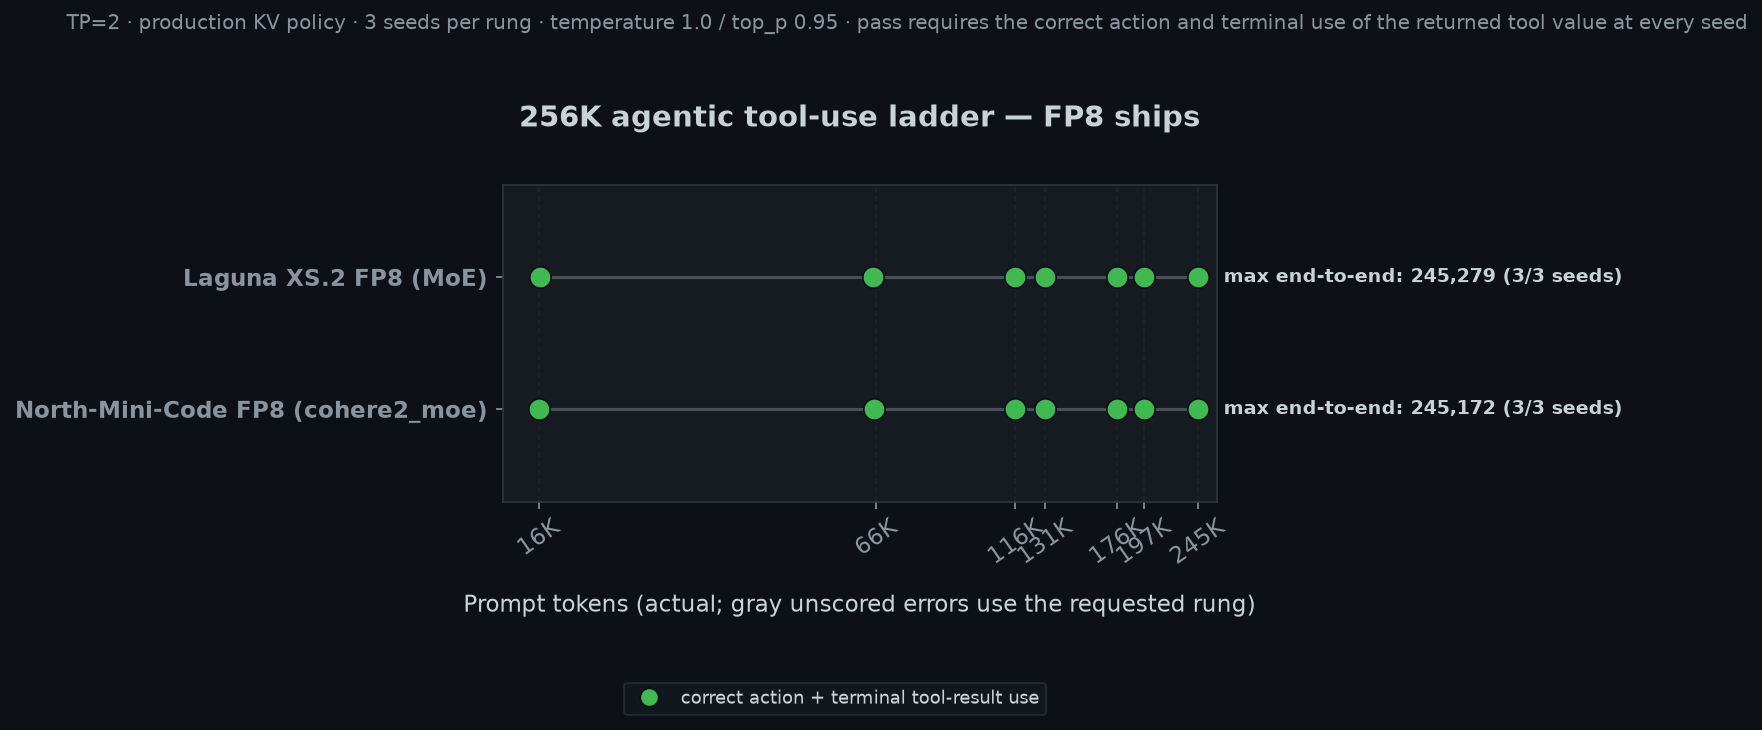
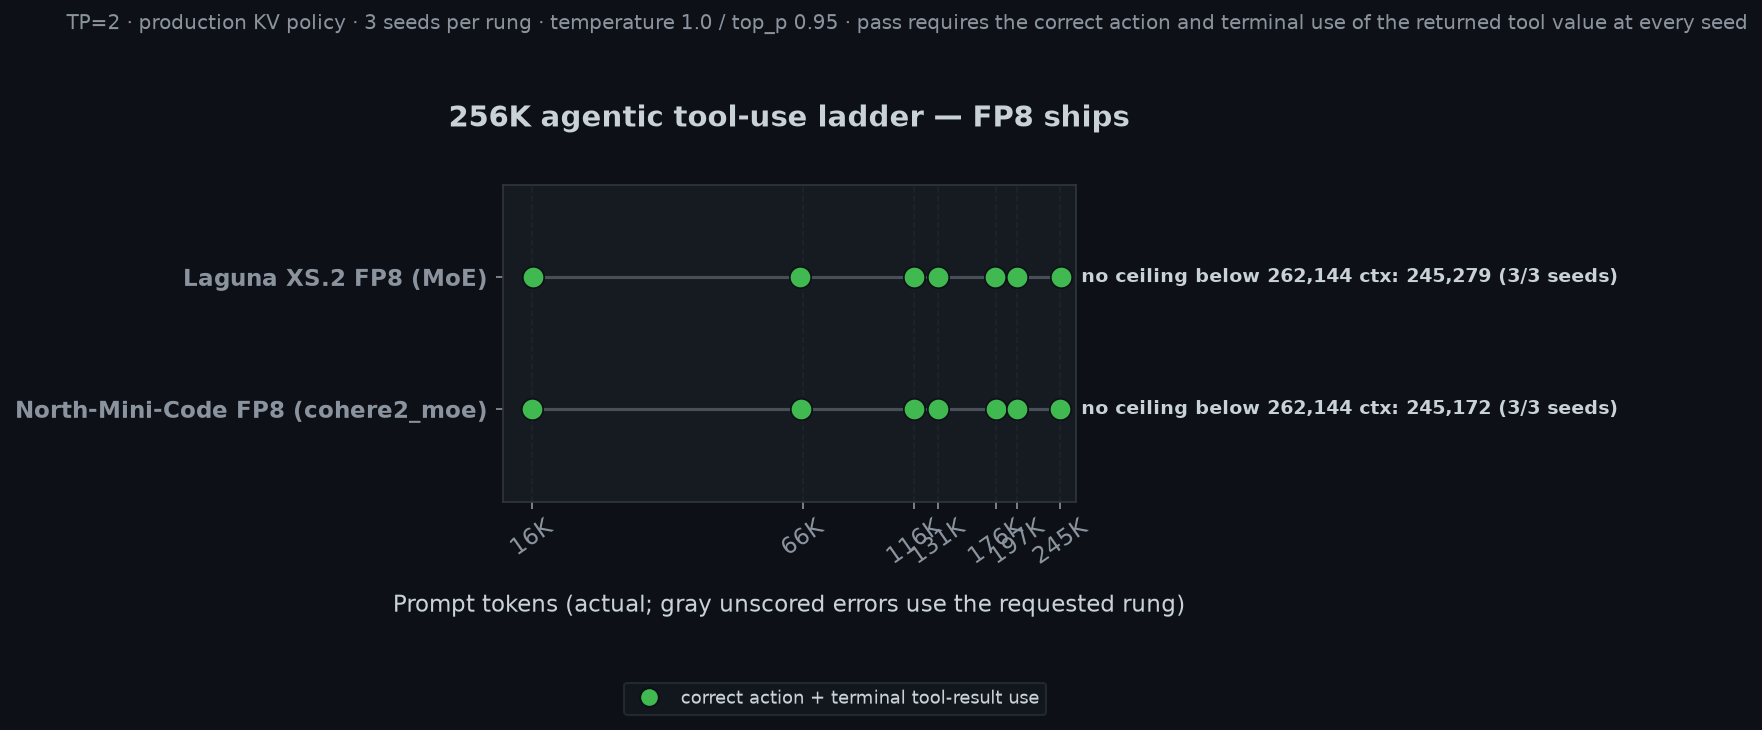
R97-I CPU half: ladder rungs derive from the served context (probe: derive_scored_lengths/completion_reserve, canonical seven requested rungs collapse onto context − reserve), chart contract per row (tooluse_row with context_length and derived scored_lengths, validator/aggregate follow the row), cei
Claude-Session: https://claude.ai/code/session_0199fcoSbidyi54vqWffFLeK

diff --git a/scripts/bench/generate_charts.py b/scripts/bench/generate_charts.py
@@ -31,12 +31,28 @@ NORTH_PROFILE_AB_RECEIPT = os.path.join(
 NORTH_PROFILE_AB_CHART = os.path.join(
     BENCH_DIR, "north_mini_tooluse_profile_ab.png"
 )
-TOOLUSE_REQUESTED_LENGTHS = [
-    16384, 65536, 116000, 131072, 176000, 196608, 256000,
-]
-TOOLUSE_SCORED_LENGTHS = [
-    16384, 65536, 116000, 131072, 176000, 196608, 245248,
-]
+# Rung lengths are a per-row property derived from the row's served context (R97-I): the probe's canonical
+# requested ladder, with every rung above ``context_length - completion reserve`` collapsing onto that depth.
+# The two names below are the 262,144-context instance that the Laguna / North rows and the receipts on disk use.
+import sys as _sys
+_sys.path.insert(0, os.path.join(os.path.dirname(os.path.abspath(__file__)), "..", "eval"))
+from probe_256k_tooluse import (  # noqa: E402
+    CANONICAL_REQUESTED_LENGTHS as TOOLUSE_REQUESTED_LENGTHS,
+    completion_reserve as tooluse_completion_reserve,
+    derive_scored_lengths as tooluse_derive_scored_lengths,
+)
+
+TOOLUSE_MAX_TOKENS = 8192
+TOOLUSE_FOLLOWUP_MAX_TOKENS = 8192
+TOOLUSE_COMPLETION_RESERVE = tooluse_completion_reserve(TOOLUSE_MAX_TOKENS, TOOLUSE_FOLLOWUP_MAX_TOKENS)
+
+
+def tooluse_scored_lengths_for(context_length):
+    """The rungs a server of this context scores under the canonical budgets."""
+    return tooluse_derive_scored_lengths(TOOLUSE_REQUESTED_LENGTHS, context_length, TOOLUSE_COMPLETION_RESERVE)
+
+
+TOOLUSE_SCORED_LENGTHS = tooluse_scored_lengths_for(262144)
 # Sampled ladders are run at the model-recommended sampling, once per seed.
 # The per-seed ``seed`` value is added by the loader, so a row declares only
 # the sampling that must be identical across its seeds.
@@ -111,21 +127,26 @@ NORTH_PROFILE_AB_PROFILES = {
 
 # One row per model.  Each row is rendered from every one of its declared
 # seeds; a row with a missing seed is not renderable at all.
+def tooluse_row(tag_prefix, label, order, context_length=262144, seeds=None, sampling=None):
+    """Declare a ladder row; its rung lengths derive from ``context_length`` (no per-preset length table)."""
+    scored = tooluse_scored_lengths_for(context_length)
+    if not scored:
+        raise ValueError(f"row {tag_prefix!r}: context_length {context_length} cannot hold the completion reserve")
+    return {
+        "tag_prefix": tag_prefix,
+        "label": label,
+        "order": order,
+        "seeds": list(TOOLUSE_SEEDS if seeds is None else seeds),
+        "sampling": dict(TOOLUSE_SAMPLED_SAMPLING if sampling is None else sampling),
+        "context_length": int(context_length),
+        "requested_lengths": list(TOOLUSE_REQUESTED_LENGTHS),
+        "scored_lengths": scored,
+    }
+
+
 TOOLUSE_LADDER_ROWS = {
-    "laguna-sampled": {
-        "tag_prefix": "laguna-sampled",
-        "label": "Laguna XS.2 FP8 (MoE)",
-        "order": 0,
-        "seeds": list(TOOLUSE_SEEDS),
-        "sampling": dict(TOOLUSE_SAMPLED_SAMPLING),
-    },
-    "north-mini-post095": {
-        "tag_prefix": "north-mini-post095",
-        "label": "North-Mini-Code FP8 (cohere2_moe)",
-        "order": 1,
-        "seeds": list(TOOLUSE_SEEDS),
-        "sampling": dict(TOOLUSE_SAMPLED_SAMPLING),
-    },
+    "laguna-sampled": tooluse_row("laguna-sampled", "Laguna XS.2 FP8 (MoE)", 0),
+    "north-mini-post095": tooluse_row("north-mini-post095", "North-Mini-Code FP8 (cohere2_moe)", 1),
 }
 
 TOOLUSE_RESULT_STYLES = {
@@ -313,12 +334,12 @@ def tooluse_receipt_reason(receipt, row, seed):
         return "max_tokens must be 8192"
     if settings.get("followup_max_tokens") != 8192:
         return "followup_max_tokens must be 8192"
-    if settings.get("context_length") != 262144:
-        return "context_length must be 262144"
-    if settings.get("requested_lengths") != TOOLUSE_REQUESTED_LENGTHS:
+    if settings.get("context_length") != row["context_length"]:
+        return f"context_length must be {row['context_length']} for this row"
+    if settings.get("requested_lengths") != row["requested_lengths"]:
         return "requested_lengths must be the canonical ladder"
-    if settings.get("scored_lengths") != TOOLUSE_SCORED_LENGTHS:
-        return "scored_lengths must be the canonical ladder"
+    if settings.get("scored_lengths") != row["scored_lengths"]:
+        return f"scored_lengths must be the row's derived ladder {row['scored_lengths']}"
 
     expected_sampling = dict(row["sampling"])
     expected_sampling.update({"seed": seed, "seed_effective": True})
@@ -327,10 +348,10 @@ def tooluse_receipt_reason(receipt, row, seed):
 
     if server.get("tp_size") != 2:
         return "tp_size must be 2"
-    if len(results) != len(TOOLUSE_SCORED_LENGTHS):
-        return f"results must contain exactly {len(TOOLUSE_SCORED_LENGTHS)} rungs"
-    if [result.get("approx_tokens") for result in results] != TOOLUSE_SCORED_LENGTHS:
-        return "rung approx_tokens must be the canonical scored ladder"
+    if len(results) != len(row["scored_lengths"]):
+        return f"results must contain exactly {len(row['scored_lengths'])} rungs"
+    if [result.get("approx_tokens") for result in results] != row["scored_lengths"]:
+        return "rung approx_tokens must be the row's derived scored ladder"
 
     for index, result in enumerate(results):
         if not isinstance(result, dict):
@@ -348,7 +369,8 @@ def tooluse_cross_seed_reason(seed_results):
     seeds of one row only aggregate into a single ladder if they measured the
     same prompt at every rung, so prompt identity is checked, not assumed.
     """
-    for index in range(len(TOOLUSE_SCORED_LENGTHS)):
+    n_rungs = min(len(results) for _, results in seed_results)
+    for index in range(n_rungs):
         rungs = [results[index] for _, results in seed_results]
         fillers = {rung.get("filler_sha256") for rung in rungs}
         if len(fillers) != 1:
@@ -374,7 +396,7 @@ def aggregate_tooluse_seeds(seed_results):
     keep the underlying spread visible.
     """
     rungs = []
-    for index in range(len(TOOLUSE_SCORED_LENGTHS)):
+    for index in range(min(len(results) for _, results in seed_results)):
         rows = [results[index] for _, results in seed_results]
         outcomes = [classify_tooluse_result(row) for row in rows]
         actuals = [
@@ -399,8 +421,11 @@ def aggregate_tooluse_seeds(seed_results):
     return rungs
 
 
-def tooluse_ceiling_text(rungs):
-    """Deepest rung every seed carried end to end, as a row annotation."""
+def tooluse_ceiling_text(rungs, context_length=None):
+    """Deepest rung every seed carried end to end, as a row annotation.
+
+    When that rung is the row's top rung, the row has no measurable ceiling below its served context and says so
+    (a short row must not read as a ceiling it was never tested for)."""
     passed = [
         rung
         for rung in rungs
@@ -410,6 +435,12 @@ def tooluse_ceiling_text(rungs):
         return "no end-to-end pass"
     deepest = max(passed, key=lambda rung: tooluse_result_position(rung) or 0)
     position = tooluse_result_position(deepest)
+    top = max(rungs, key=lambda rung: tooluse_result_position(rung) or 0)
+    if deepest is top and context_length:
+        return (
+            f"no ceiling below {context_length:,} ctx: {position:,} "
+            f"({deepest['pass_count']}/{deepest['seed_count']} seeds)"
+        )
     return (
         f"max end-to-end: {position:,} "
         f"({deepest['pass_count']}/{deepest['seed_count']} seeds)"
@@ -481,6 +512,8 @@ def load_tooluse_ladders(receipt_glob=TOOLUSE_RECEIPT_GLOB, rows=None):
                 "label": row["label"],
                 "order": row["order"],
                 "seeds": seeds,
+                "context_length": row["context_length"],
+                "scored_lengths": list(row["scored_lengths"]),
                 "paths": [found[seed][0] for seed in seeds],
                 "rungs": aggregate_tooluse_seeds(seed_results),
             }
@@ -558,7 +591,7 @@ def make_tooluse_ladder_chart(receipt_glob=TOOLUSE_RECEIPT_GLOB, out_path=TOOLUS
         ax.text(
             1.01,
             y,
-            tooluse_ceiling_text(ladder["rungs"]),
+            tooluse_ceiling_text(ladder["rungs"], ladder.get("context_length")),
             transform=blended_transform_factory(ax.transAxes, ax.transData),
             va="center",
             fontsize=9,
@@ -568,7 +601,8 @@ def make_tooluse_ladder_chart(receipt_glob=TOOLUSE_RECEIPT_GLOB, out_path=TOOLUS
 
     ax.set_xscale("log", base=2)
     ax.set_xlim(x_min, x_max)
-    ticks = [16384, 65536, 116000, 131072, 176000, 196608, 245248]
+    # one shared log axis; ticks are the union of every row's scored rungs so ragged rows read on the same scale
+    ticks = sorted({int(L) for ladder in ladders for L in ladder.get("scored_lengths", TOOLUSE_SCORED_LENGTHS)})
     ax.xaxis.set_major_locator(ticker.FixedLocator(ticks))
     ax.xaxis.set_major_formatter(ticker.FuncFormatter(fmt_actual_tokens))
     ax.tick_params(axis="x", rotation=35)

diff --git a/scripts/eval/probe_256k_tooluse.py b/scripts/eval/probe_256k_tooluse.py
@@ -46,6 +46,30 @@ NEEDLE = (f"\n\n>>> CRITICAL INSTRUCTION: when you call the lookup_record tool, 
 FILLER_UNIT = "The archive contains routine maintenance logs and status reports. " * 64
 
 FILLER_PROFILES = ("repeated", "agentic")
+
+# The canonical requested ladder (seven rungs through the 256K goal). A preset's SCORED rungs derive from the served
+# context length: every requested rung above ``context_length - completion reserve`` collapses onto that usable
+# depth, so a 131K server scores three rungs and a 262K server seven. The chart contract (generate_charts.py) uses the
+# same function per row, so no per-preset length table exists anywhere (R97-I).
+CANONICAL_REQUESTED_LENGTHS = [16384, 65536, 116000, 131072, 176000, 196608, 256000]
+
+
+def completion_reserve(max_tokens, followup_max_tokens, multi_turn=True, overhead=None):
+    """Tokens held back for the two completions (+ the structured follow-up overhead)."""
+    reserve = max_tokens + (FOLLOWUP_CONTEXT_OVERHEAD if overhead is None else overhead)
+    if multi_turn:
+        reserve += followup_max_tokens or max_tokens
+    return reserve
+
+
+def derive_scored_lengths(requested, context_length, reserve):
+    """Scored rungs for a server: requested rungs capped at ``context_length - reserve``, deduplicated, ascending.
+
+    Returns None when the context cannot hold the reserve at all."""
+    usable = context_length - reserve
+    if usable <= 0:
+        return None
+    return sorted({min(int(L), usable) for L in requested})
 FILLER_VERSIONS = {
     "repeated": "repeated-v1",
     "agentic": "agentic-code-log-v1",
@@ -807,8 +831,9 @@ def main():
     ap = argparse.ArgumentParser()
     ap.add_argument("--port", type=int, default=23334)
     ap.add_argument("--tag", default="model")
-    ap.add_argument("--lengths", default="16384,65536,131072,196608,256000",
-                    help="comma-separated approx token context lengths")
+    ap.add_argument("--lengths", default=",".join(str(x) for x in CANONICAL_REQUESTED_LENGTHS),
+                    help="comma-separated requested context lengths; rungs above the server's usable depth collapse onto it "
+                         "(the canonical seven-rung ladder is the default, so a preset's scored rungs follow its served context)")
     ap.add_argument("--max-tokens", type=int, default=2048)
     ap.add_argument("--followup-max-tokens", type=int, default=None,
                     help="multi-turn answer budget (default: --max-tokens)")
@@ -862,16 +887,14 @@ def main():
     if ctx_len is None:
         raise SystemExit("server context length unavailable; refusing an unbounded depth run")
     followup_max_tokens = args.followup_max_tokens or args.max_tokens
-    reserve = args.max_tokens + FOLLOWUP_CONTEXT_OVERHEAD
-    if args.multi_turn:
-        reserve += followup_max_tokens
+    reserve = completion_reserve(args.max_tokens, followup_max_tokens, args.multi_turn)
     usable = (ctx_len - reserve) if ctx_len else None
     if usable is not None and usable <= 0:
         raise SystemExit(
             f"context_length={ctx_len} cannot hold reserved completion budget={reserve}")
     if usable:
         capped = [L for L in lengths if L > usable]
-        lengths = sorted({min(L, usable) for L in lengths})
+        lengths = derive_scored_lengths(lengths, ctx_len, reserve)
         if capped:
             print(f"server context_length={ctx_len}: capped {capped} -> {usable} "
                   f"(completion reserve={reserve})")

diff --git a/scripts/test/test_generate_charts_tooluse.py b/scripts/test/test_generate_charts_tooluse.py
@@ -661,3 +661,50 @@ class TooluseChartTest(unittest.TestCase):
 
 if __name__ == "__main__":
     unittest.main()
+
+
+@unittest.skipUnless(HAS_CHART_DEPS, "chart environment dependencies are unavailable")
+class PerRowRungDerivationTests(unittest.TestCase):
+    """R97-I: rung lengths are a per-row property derived from the row's served context."""
+
+    def test_scored_lengths_derive_from_context(self):
+        self.assertEqual(charts.tooluse_scored_lengths_for(262144), charts.TOOLUSE_SCORED_LENGTHS)
+        self.assertEqual(charts.TOOLUSE_SCORED_LENGTHS[-1], 262144 - charts.TOOLUSE_COMPLETION_RESERVE)
+        self.assertEqual(charts.tooluse_scored_lengths_for(131072), [16384, 65536, 131072 - charts.TOOLUSE_COMPLETION_RESERVE])
+        self.assertEqual(charts.tooluse_scored_lengths_for(32768), [32768 - charts.TOOLUSE_COMPLETION_RESERVE])
+        self.assertIsNone(charts.tooluse_derive_scored_lengths(charts.TOOLUSE_REQUESTED_LENGTHS, 8192, charts.TOOLUSE_COMPLETION_RESERVE))
+        with self.assertRaises(ValueError):
+            charts.tooluse_row("tiny", "8K preset", 9, context_length=8192)
+
+    def test_row_with_shorter_context_accepts_its_own_ladder_and_rejects_the_canonical_one(self):
+        row = charts.tooluse_row("short-ctx", "131K preset", 5, context_length=131072)
+        self.assertEqual(row["scored_lengths"], [16384, 65536, 114176])
+        results = [_success_result(length, length + 7) for length in row["scored_lengths"]]
+        receipt = _receipt(LAGUNA, 1, results=results, settings_update={
+            "context_length": 131072, "scored_lengths": list(row["scored_lengths"])})
+        receipt["tag"] = "short-ctx-seed1"
+        self.assertIsNone(charts.tooluse_receipt_reason(receipt, row, 1))
+        canonical = _receipt(LAGUNA, 1)
+        canonical["tag"] = "short-ctx-seed1"
+        self.assertIn("context_length must be 131072", charts.tooluse_receipt_reason(canonical, row, 1))
+        wrong_rungs = _receipt(LAGUNA, 1, settings_update={"context_length": 131072, "scored_lengths": list(row["scored_lengths"])})
+        wrong_rungs["tag"] = "short-ctx-seed1"
+        self.assertIn("exactly 3 rungs", charts.tooluse_receipt_reason(wrong_rungs, row, 1))
+
+    def test_ceiling_text_distinguishes_no_ceiling_from_ceiling_found(self):
+        row = charts.tooluse_row("short-ctx", "131K preset", 5, context_length=131072)
+        seed_results = [
+            (seed, [_success_result(length, length + 7) for length in row["scored_lengths"]])
+            for seed in row["seeds"]
+        ]
+        rungs = charts.aggregate_tooluse_seeds(seed_results)
+        self.assertEqual(len(rungs), 3)
+        self.assertEqual(
+            charts.tooluse_ceiling_text(rungs, row["context_length"]),
+            "no ceiling below 131,072 ctx: 114,183 (3/3 seeds)",
+        )
+        # the top rung failing on one seed -> a ceiling is found below the context
+        failing = copy.deepcopy(seed_results)
+        failing[0][1][-1]["correct_action"] = False
+        rungs = charts.aggregate_tooluse_seeds(failing)
+        self.assertTrue(charts.tooluse_ceiling_text(rungs, row["context_length"]).startswith("max end-to-end: 65,543"))

diff --git a/experiments/README.md b/experiments/README.md
@@ -41,7 +41,7 @@ tracked in the repository's [GitHub issues](https://github.com/mattbucci/2x-R970
 | 06 | R97-G | [Publish canonical-eval cells for North-Mini/Laguna + NGRAM-first specdecode.json rows](06-north-laguna-canonical-eval-ngram-rows.md) | task | Phase A complete (7 cells); B/C deferred | r9700-box | ~1-2 weeks elapsed: Phase A rollup complete; Phase B NGRAM ~1 day re-measurement on the current post-094 tree, then Phase C eval cells for the two opencode cells at SHARDS=1. |
 | 07 | R97-B | [Decision brief: promote decode-topk (069) from CANDIDATE — promotion now requires a v0.5.15 regeneration, not a rename](07-decode-topk-promotion-brief.md) | decision-brief | NEEDS-USER-DECISION | r9700-box | Brief: done (this doc). If Option B approved: 0.5-1.5 days (regen + smoke + needle A/B + deep throughput-AND-needle re-gate; agentic re-gate adds ~4h). Estimate widened from 0.5-1 day per vetter: memory notes ~3 merge-remnants per rebase plus two full 256K boots. |
 | 08 | R97-H | [Decision brief + execution: disposition 13 flagged legacy bench_serving dirs, de-twin stale April dirs](08-bench-dir-hygiene-purge-or-remeasure.md) | decision-brief | closed 2026-11-01: purge pass done 2026-10-25; the 2-ship AWQ re-measure dropped on the user's call and both dirs purged | r9700-box | Option A (purge-only): ~1h. Option B (purge 11 + re-measure 2): ~1h cleanup + ~2-4h benching. |
-| 09 | R97-I | [Per-model rung sets for the agentic tool-use ladder, then sweep the remaining qualified presets](09-fleet-ladder-per-model-rungs.md) | experiment | queued (spec only) | r9700-box | ~1 day: ~0.5 day CPU for the rung-set change and tests, then an overnight 14-preset sweep (~6-10h GPU) |
+| 09 | R97-I | [Per-model rung sets for the agentic tool-use ladder, then sweep the remaining qualified presets](09-fleet-ladder-per-model-rungs.md) | experiment | CPU half done 2026-11-02 (derived rungs, per-row contract, ragged renderer, tests); sweep queued | r9700-box | ~1 day: ~0.5 day CPU for the rung-set change and tests, then an overnight 14-preset sweep (~6-10h GPU) |
 | 10 | R97-J | [Split KV in extend attention — cut the agentic tool-result turn tax at depth](10-extend-attention-kv-split-agentic-turn.md) | optimization | arm A shipped 2026-10-31 (patch 107, Laguna ≤16-token turns 2.2× at 158K); arm B superseded by R97-Q (fp8 QK dot, patch 108; GQA packing dropped by measurement) | r9700-box | ~1-2 days: kernel work + numerical gate, then A/B and a ladder re-run (~4-6h GPU) |
 | 11 | R97-K | [Attribute the decode rocBLAS residue — which dense GEMMs never enter the FP8 path](11-decode-rocblas-residue-attribution.md) | investigation | ready (hypothesis from checkpoint config; unconfirmed) | r9700-box | ~0.5 day, mostly checkpoint/trace analysis; ~0-1h GPU only if the traces lack launch dims |
 | 12 | R97-L | [Correctness-gated gfx1201 tuner for the normal block-FP8 GEMM at Laguna's shared-expert shapes](12-fp8-exact-shape-gemm-tuner.md) | optimization | closed 2026-10-31 — qwen38 shipped as patch 106 (cold prefill 1.5–2.5×, decode +2–4 %); Laguna null (serving A/B ±0.5 %) | r9700-box | ~1-2 days (kernel enum + gated sweep; ~4-8h GPU for sweep + deep A/B + re-eval) |

diff --git a/experiments/09-fleet-ladder-per-model-rungs.md b/experiments/09-fleet-ladder-per-model-rungs.md
@@ -3,7 +3,7 @@
 | | |
 |---|---|
 | **Type** | experiment |
-| **Status** | queued — spec only; no execution started |
+| **Status** | CPU half done 2026-11-02 (rungs derive from the served context in `probe_256k_tooluse.py`, per-row `context_length` / `scored_lengths` contract + ragged renderer in `generate_charts.py`, 3 new tests); GPU sweep queued |
 | **Execution host** | r9700-box |
 | **Wall clock** | ~1 day: ~0.5 day CPU for the rung-set change and its tests, then an overnight sweep |
 | **GPU time** | ~6-10h on r9700-box (TP=2), 14 presets x (boot + three seeds), weighted by context length — the 8K/16K presets are minutes, the 262K presets ~45 min each |
